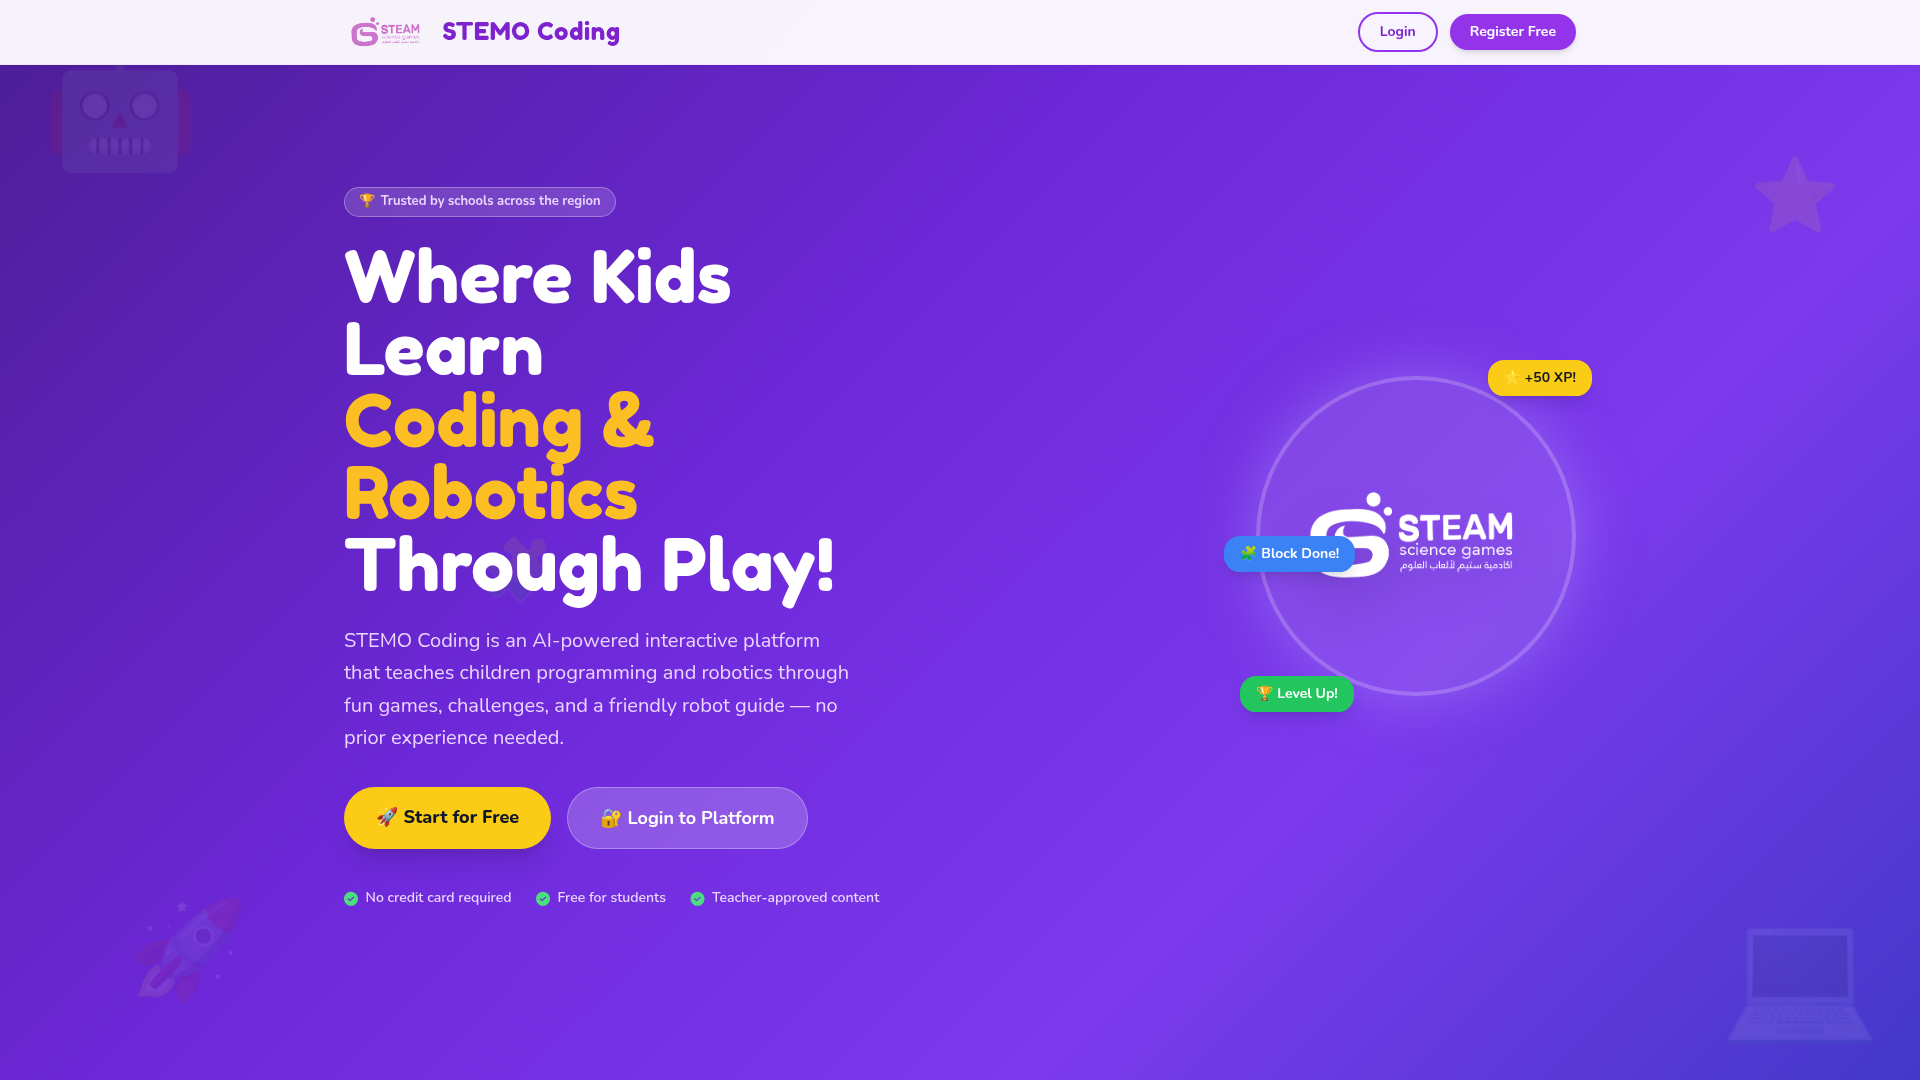
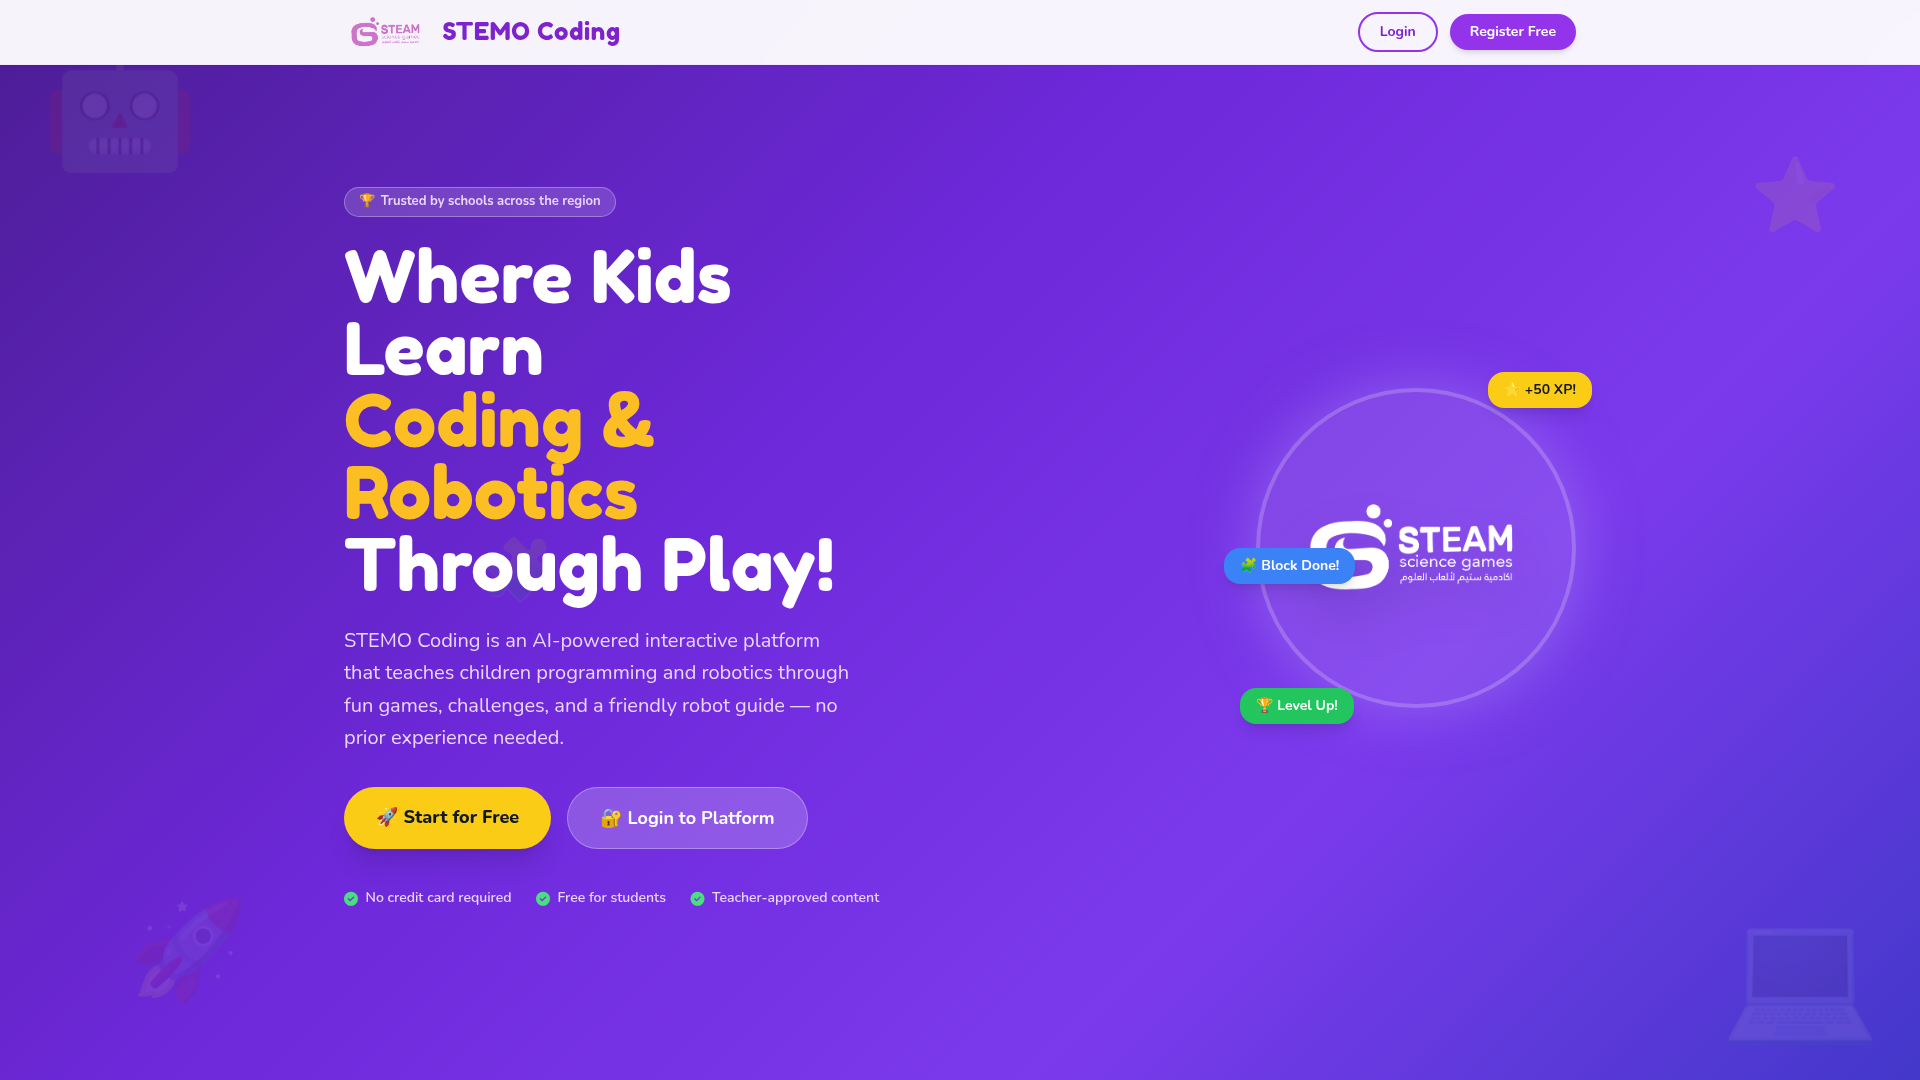
Expand the drawing area to allow for larger creations
Update STMO's world panel and canvas dimensions, adjust robot starting position and movement clamp bounds in `src/index.tsx`.

Replit-Commit-Author: Agent
Replit-Commit-Session-Id: f2174d0c-2de3-4818-93e2-1e2feb370040
Replit-Commit-Checkpoint-Type: full_checkpoint
Replit-Commit-Event-Id: f41533cf-f4e1-4ed9-9a84-235fa72b0299
Replit-Commit-Screenshot-Url: https://storage.googleapis.com/screenshot-production-us-central1/f5e6486b-8370-4d84-b99e-f0c443b9b245/f2174d0c-2de3-4818-93e2-1e2feb370040/iovqmXU
Replit-Helium-Checkpoint-Created: true

diff --git a/src/index.tsx b/src/index.tsx
@@ -1354,7 +1354,7 @@ const htmlContent = `<!DOCTYPE html>
                 <div id="blocklyDiv" class="flex-1 min-w-0"></div>
                 
                 <!-- Robot Panel - Right Side (Bigger canvas + chat) -->
-                <div id="robotPanel" class="w-[430px] bg-white border-l-2 border-gray-200 flex flex-col transition-all duration-300">
+                <div id="robotPanel" class="w-[590px] bg-white border-l-2 border-gray-200 flex flex-col transition-all duration-300">
                     <div class="bg-gradient-to-r from-blue-500 to-cyan-500 text-white p-2 flex items-center justify-between">
                         <div class="flex items-center gap-2">
                             <span class="text-xl">🤖</span>
@@ -1404,7 +1404,7 @@ const htmlContent = `<!DOCTYPE html>
                         </div>
                     </div>
                     <div class="flex-1 p-2 flex items-center justify-center overflow-hidden relative">
-                        <canvas id="robotCanvas" width="400" height="400" class="rounded-xl shadow-lg cursor-crosshair relative z-10" onclick="handleCanvasClick(event)"></canvas>
+                        <canvas id="robotCanvas" width="550" height="550" class="rounded-xl shadow-lg cursor-crosshair relative z-10" onclick="handleCanvasClick(event)"></canvas>
                         <div id="threeCanvasContainer" class="absolute top-2 left-2 right-2 bottom-2 rounded-xl overflow-hidden hidden z-20 pointer-events-auto"></div>
                         <!-- Mission Toast: appears briefly over canvas then fades out -->
                         <div id="missionHUD" class="hidden absolute top-4 left-4 right-4 z-30 pointer-events-none">
@@ -1702,7 +1702,7 @@ const htmlContent = `<!DOCTYPE html>
                     }},
                     { id: 'go-home', label: '🏠 Step 4: Return home & Magnet OFF', check: function() {
                         var allCollected = metalObjects.every(function(m) { return m.pickedUp; });
-                        var dx = robot.x - 200, dy = robot.y - 200;
+                        var dx = robot.x - 275, dy = robot.y - 275;
                         return allCollected && Math.sqrt(dx*dx + dy*dy) < 30 && !robot.magnetOn;
                     }}
                 ]
@@ -2698,8 +2698,8 @@ const htmlContent = `<!DOCTYPE html>
             }
 
             // Reset robot before running
-            robot.x = 200;
-            robot.y = 200;
+            robot.x = 275;
+            robot.y = 275;
             robot.angle = -90;
             robot.penDown = false;
             robot.penSize = 4;
@@ -2941,8 +2941,8 @@ const htmlContent = `<!DOCTYPE html>
                     });
                 }
                 
-                robot.x = Math.max(25, Math.min(375, newX));
-                robot.y = Math.max(25, Math.min(375, newY));
+                robot.x = Math.max(25, Math.min(525, newX));
+                robot.y = Math.max(25, Math.min(525, newY));
                 
                 // Check if magnet is ON and can pick up nearby metal
                 if (robot.magnetOn && (challengeMode || !robot.carrying)) {
@@ -2973,8 +2973,8 @@ const htmlContent = `<!DOCTYPE html>
                 robot.angle += cmd.value;
             } else if (cmd.action === 'home') {
                 // Go home without drawing
-                robot.x = 200;
-                robot.y = 200;
+                robot.x = 275;
+                robot.y = 275;
                 robot.angle = -90;
             } else if (cmd.action === 'pen') {
                 robot.penDown = cmd.value;
@@ -3028,8 +3028,8 @@ const htmlContent = `<!DOCTYPE html>
                             var dropRad = robot.angle * Math.PI / 180;
                             var dropX = robot.x + Math.cos(dropRad) * 40;
                             var dropY = robot.y + Math.sin(dropRad) * 40;
-                            dropX = Math.max(25, Math.min(375, dropX));
-                            dropY = Math.max(25, Math.min(375, dropY));
+                            dropX = Math.max(25, Math.min(525, dropX));
+                            dropY = Math.max(25, Math.min(525, dropY));
                             robot.carrying.x = dropX;
                             robot.carrying.y = dropY;
                             robot.carrying.pickedUp = false;
@@ -3072,8 +3072,8 @@ const htmlContent = `<!DOCTYPE html>
                         });
                     }
                     
-                    robot.x = Math.max(25, Math.min(375, newX));
-                    robot.y = Math.max(25, Math.min(375, newY));
+                    robot.x = Math.max(25, Math.min(525, newX));
+                    robot.y = Math.max(25, Math.min(525, newY));
                 }
             } else if (cmd.action === 'smart_turn') {
                 // Smart turn - choose best direction based on situation
@@ -3362,8 +3362,8 @@ const htmlContent = `<!DOCTYPE html>
                 if (robot.waterLevel <= 0) {
                     addChatMessage('stemo', "💧 Water empty! Returning to base...");
                     // Move toward home to "refill"
-                    var dx = 200 - robot.x;
-                    var dy = 200 - robot.y;
+                    var dx = 275 - robot.x;
+                    var dy = 275 - robot.y;
                     var dist = Math.sqrt(dx * dx + dy * dy);
                     
                     if (dist < 30) {
@@ -3430,8 +3430,8 @@ const htmlContent = `<!DOCTYPE html>
                         robot.x += Math.cos(rad) * 15;
                         robot.y += Math.sin(rad) * 15;
                         
-                        robot.x = Math.max(25, Math.min(375, robot.x));
-                        robot.y = Math.max(25, Math.min(375, robot.y));
+                        robot.x = Math.max(25, Math.min(525, robot.x));
+                        robot.y = Math.max(25, Math.min(525, robot.y));
                     }
                 }
                 
@@ -3500,8 +3500,8 @@ const htmlContent = `<!DOCTYPE html>
                     robot.y += Math.sin(rad) * 20;
                     
                     // Bounds
-                    robot.x = Math.max(25, Math.min(375, robot.x));
-                    robot.y = Math.max(25, Math.min(375, robot.y));
+                    robot.x = Math.max(25, Math.min(525, robot.x));
+                    robot.y = Math.max(25, Math.min(525, robot.y));
                 }
                 
                 stepCount++;
